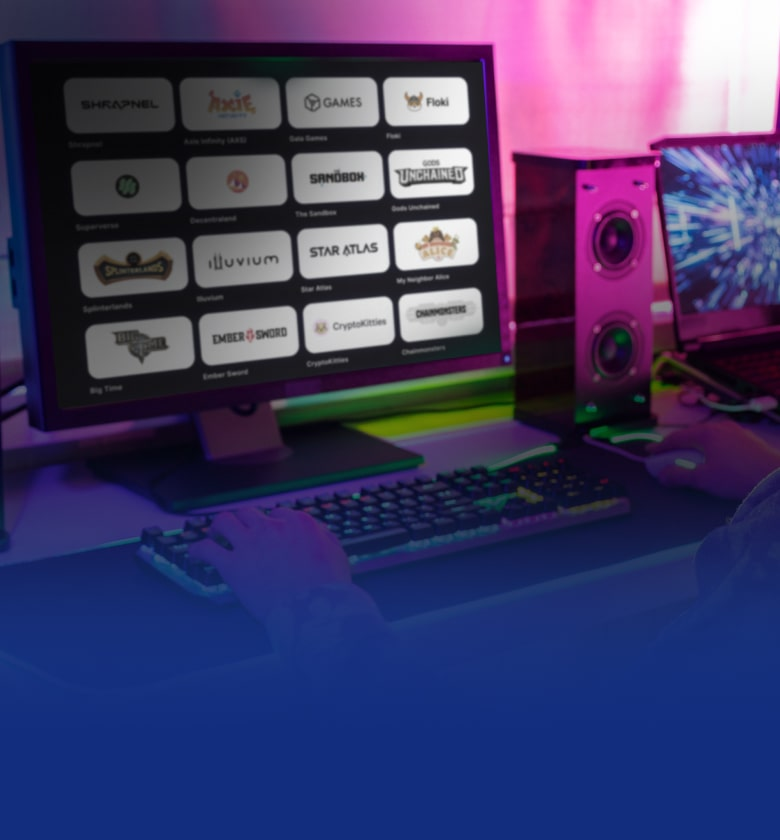
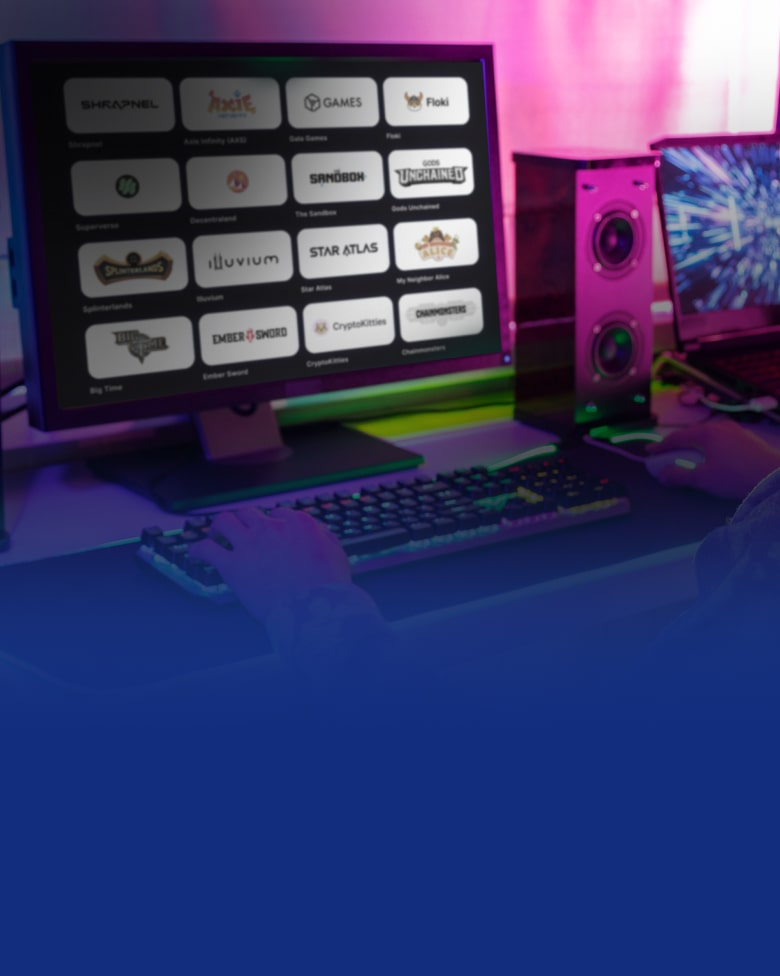
Solve bugs related to mobile

diff --git a/src/layouts/CategoryOverviewLayout.tsx b/src/layouts/CategoryOverviewLayout.tsx
@@ -8,86 +8,91 @@ import { cn } from '../lib/utils';
 import { useTransitionAnimation } from '../context/TransitionAnimationContext/TransitionAnimationContext';
 
 interface CategoryOverviewLayout {
-    children: React.ReactNode;
+	children: React.ReactNode;
 }
 
 const CategoryOverviewLayout: React.FC<CategoryOverviewLayout> = ({ children }) => {
-    const [hasScrolled, setHasScrolled] = useState(false);
-    const {category} = useTransitionAnimation()
+	const [hasScrolled, setHasScrolled] = useState(false);
+	const { category } = useTransitionAnimation();
 
-    const handleScroll = useCallback(() => {
-        // Only execute on md screens and above (768px is Tailwind's md breakpoint)
-        if (window.innerWidth < 1024) return;
+	const handleScroll = useCallback(() => {
+		// Only execute on md screens and above (768px is Tailwind's md breakpoint)
+		if (window.innerWidth < 1024) return;
 
-        const scrollPosition = window.scrollY;
+		const scrollPosition = window.scrollY;
 
-        // Reset states when user scrolls back to top
-        if (scrollPosition === 0) {
-            setHasScrolled(false);
-            return;
-        }
+		// Reset states when user scrolls back to top
+		if (scrollPosition === 0) {
+			setHasScrolled(false);
+			return;
+		}
 
-        // Trigger scroll down when user starts scrolling
-        if (!hasScrolled && scrollPosition > 50) {
-            setHasScrolled(true);
-            window.scrollTo({
-                top: category !== 'creators' ? 500 : 430,
-                behavior: 'smooth'
-            });
-        }
-    }, [category, hasScrolled]);
+		// Trigger scroll down when user starts scrolling
+		if (!hasScrolled && scrollPosition > 30) {
+			setHasScrolled(true);
+			window.scrollTo({
+				top: category !== 'creators' ? 500 : 430,
+				behavior: 'smooth'
+			});
+		}
+	}, [category, hasScrolled]);
 
-    useEffect(() => {
-        window.addEventListener('scroll', handleScroll);
-        return () => window.removeEventListener('scroll', handleScroll);
-    }, [handleScroll]);
+	useEffect(() => {
+		window.addEventListener('scroll', handleScroll);
+		return () => window.removeEventListener('scroll', handleScroll);
+	}, [handleScroll]);
 
-    return (
-        <CategoryBgTransition>
-            {/* Main scrollable container */}
-            <div className="flex-grow relative">
-                {/* Hero Container */}
-                <div className="hidden md:block absolute inset-0 overflow-x-hidden">
-                    <HeroContainer />
-                </div>
+	useEffect(() => {
+		const scrollToTop = () => {
+			window.scrollTo({ top: 0, behavior: 'smooth' });
+		};
 
-                {/* Overflow wrapper */}
-                <div className="relative z-10 overflow-y-auto h-screen md:overflow-y-visible md:h-auto">
-                    <NavbarMobile />
-                    <div className="md:hidden absolute inset-0 overflow-x-hidden">
-                    <HeroContainer />
-                </div>
-                    <div className="pl-4 mb-24">
-                        <div className="grid lg:grid-cols-[300px_1fr] lg:gap-10">
-                            {/* Menu section */}
-                            <div className="md:block">
-                                <div 
-                                    className={`lg:sticky lg:top-4 lg:max-h-[800px] max-h-[480px] h-screen transition-transform duration-1000 ease-in-out`}
-                                >
-                                    <MenuCategory />
-                                </div>
-                            </div>
+		scrollToTop();
+	}, [category]);
 
-                            {/* Main content with overflow control */}
-                            <div className="overflow-x-hidden z-10 md:z-0 mt-14 md:mt-0">
-                                <div className="flex flex-col">
-                                    {/* Spacer */}
-                                    <div className={cn(category !== 'creators' ? "lg:h-[550px]" : "lg:h-[470px]" )} />
+	return (
+		<CategoryBgTransition>
+			{/* Main scrollable container */}
+			<div className='flex-grow relative'>
+				{/* Hero Container */}
+				<div className='hidden md:block absolute inset-0 overflow-x-hidden'>
+					<HeroContainer />
+				</div>
 
-                                    {/* Content */}
-                                    <div className="w-full">
-                                        {children}
-                                    </div>
-                                </div>
-                            </div>
-                        </div>
-    
-                    </div>
-                    <Footer />
-                </div>
-            </div>
-        </CategoryBgTransition>
-    );
+				{/* Overflow wrapper */}
+				<div className='relative z-10 overflow-y-auto h-screen md:overflow-y-visible md:h-auto'>
+					<NavbarMobile />
+					<div className='md:hidden absolute inset-0 overflow-x-hidden'>
+						<HeroContainer />
+					</div>
+					<div className='pl-4 mb-24'>
+						<div className='grid lg:grid-cols-[300px_1fr] lg:gap-10'>
+							{/* Menu section */}
+							<div className='md:block -mb-10 md:mb-0'>
+								<div
+									className={`lg:sticky lg:top-4 lg:max-h-[800px] max-h-[480px] h-screen transition-transform duration-1000 ease-in-out`}
+								>
+									<MenuCategory />
+								</div>
+							</div>
+
+							{/* Main content with overflow control */}
+							<div className='overflow-x-hidden z-10 md:z-0 md:mt-0'>
+								<div className='flex flex-col'>
+									{/* Spacer */}
+									<div className={cn(category !== 'creators' ? 'lg:h-[550px]' : 'lg:h-[470px]')} />
+
+									{/* Content */}
+									<div className='w-full'>{children}</div>
+								</div>
+							</div>
+						</div>
+					</div>
+					<Footer />
+				</div>
+			</div>
+		</CategoryBgTransition>
+	);
 };
 
 export default CategoryOverviewLayout;

diff --git a/src/components/TransitionGradient.tsx b/src/components/TransitionGradient.tsx
@@ -118,7 +118,7 @@ const TransitionGradient: React.FC<TransitionGradientProps> = () => {
 			{/* Current gradient layers */}
 			<div
 				key={`current-1-${activeIndex}`}
-				className={cn('absolute w-screen flex-shrink-0 md:bottom-[-215px] md:h-[429px]', category === "creators" ? ' h-[170px] bottom-[50px]' : "h-[250px] bottom-[100px]")}
+				className={cn('absolute w-screen flex-shrink-0 md:bottom-[-215px] md:h-[429px]', category === "creators" ? ' h-[170px] bottom-[50px]' : "h-[150px] bottom-0")}
 				style={{
 					...baseStyle,
 					background: currentGradient[0],
@@ -128,7 +128,7 @@ const TransitionGradient: React.FC<TransitionGradientProps> = () => {
 			/>
 			<div
 				key={`current-2-${activeIndex}`}
-				className={cn('absolute w-screen flex-shrink-0 md:bottom-[-315px] md:h-[429px]', category === "creators" ? ' h-[170px] bottom-[10px]' : "h-[250px] bottom-[50px]")}
+				className={cn('absolute w-screen flex-shrink-0 md:bottom-[-315px] md:h-[429px]', category === "creators" ? ' h-[170px] bottom-[10px]' : "h-[150px] bottom-0 ")}
 				style={{
 					...baseStyle,
 					background: currentGradient[1],
@@ -138,7 +138,7 @@ const TransitionGradient: React.FC<TransitionGradientProps> = () => {
 			/>
 			<div
 				key={`current-3-${activeIndex}`}
-				className={cn('absolute w-screen flex-shrink-0 md:bottom-[-315px] md:h-[429px]', category === "creators" ? ' h-[170px] bottom-[0px]' : "h-[250px] bottom-[0px]")}
+				className={cn('absolute w-screen flex-shrink-0 md:bottom-[-315px] md:h-[429px]', category === "creators" ? ' h-[170px] bottom-[0px]' : "h-[150px] bottom-0")}
 				style={{
 					...baseStyle,
 					background: currentGradient[2],
@@ -152,7 +152,7 @@ const TransitionGradient: React.FC<TransitionGradientProps> = () => {
 				<>
 					<div
 						key={`next-1-${nextIndex}`}
-						className={cn('absolute w-screen flex-shrink-0 md:bottom-[-215px] md:h-[429px]', category === 'creators' ? 'h-[170px] bottom-[50px]' : 'h-[250px] bottom-[100px]')}
+						className={cn('absolute w-screen flex-shrink-0 md:bottom-[-215px] md:h-[429px]', category === 'creators' ? 'h-[170px] bottom-[50px]' : 'h-[150px] bottom-0')}
 						style={{
 							...baseStyle,
 							background: nextGradient[0],
@@ -162,7 +162,7 @@ const TransitionGradient: React.FC<TransitionGradientProps> = () => {
 					/>
 					<div
 						key={`next-2-${nextIndex}`}
-						className={cn('absolute w-screen flex-shrink-0 md:bottom-[-315px] md:h-[429px]', category === 'creators' ? 'h-[170px] bottom-[10px]' : 'h-[250px] bottom-[50px]')}
+						className={cn('absolute w-screen flex-shrink-0 md:bottom-[-315px] md:h-[429px]', category === 'creators' ? 'h-[170px] bottom-[10px]' : 'h-[150px] bottom-0')}
 						style={{
 							...baseStyle,
 							background: nextGradient[1],
@@ -172,7 +172,7 @@ const TransitionGradient: React.FC<TransitionGradientProps> = () => {
 					/>
 					<div
 						key={`next-3-${nextIndex}`}
-						className={cn('absolute w-screen flex-shrink-0 md:bottom-[-315px] md:h-[429px]', category === 'creators' ? 'h-[170px] bottom-[0px]' : 'h-[250px] bottom-[0px]')}
+						className={cn('absolute w-screen flex-shrink-0 md:bottom-[-315px] md:h-[429px]', category === 'creators' ? 'h-[170px] bottom-[0px]' : 'h-[150px] bottom-0')}
 						style={{
 							...baseStyle,
 							background: nextGradient[2],

diff --git a/src/components/Category/CategoryContainer.tsx b/src/components/Category/CategoryContainer.tsx
@@ -35,8 +35,8 @@ const CategoryContainer: React.FC<CategoryContainerProps> = React.memo(
 		return (
 			<div className={cn('flex flex-col gap-4 w-full', isViewOnly ? 'glass pl-5 py-5' : '')}>
 				{/* Title section */}
-				<div className='flex items-center md:text-2xl text-lg font-semibold gap-1 text-white'>
-					{!isViewOnly &&  <Link to={!squareView ? `/?category=${title.toLowerCase()}` : '/creatorhub'} className='flex items-center gap-1 text-white'>
+				<div className='flex items-center md:text-2xl text-lg font-semibold gap-1 text-white hover:cursor-pointer'>
+					{!isViewOnly &&  <Link to={!squareView ? `/?category=${title.toLowerCase()}` : '/creatorhub'} className='flex items-center gap-1 text-white hover:cursor-pointer'>
 						<p className='font-bold'>{title}</p>
 					</Link>}
 					{

diff --git a/src/components/Hero/HeroImage.tsx b/src/components/Hero/HeroImage.tsx
@@ -149,7 +149,7 @@ const HeroImage: React.FC = () => {
 			{category === 'creators' && isMobile && (
 				<div className='absolute inset-0 w-full h-full flex items-center mt-[450px] md:mt-0'>
 					<div className='h-40 relative w-[130%] flex flex-col items-start justify-center'>
-						<div className='mt-20'>
+						<div className='mt-5'>
 							<div className='absolute h-full w-full bg-[#090D23] blur-[54px] z-0' />
 							<div className='absolute h-full w-full bg-[#090D23] blur-[54px] z-0' />
 							<div className='absolute h-full w-full bg-[#090D23] blur-[50px] z-0' />

diff --git a/src/components/Menu/MobileMenu.tsx b/src/components/Menu/MobileMenu.tsx
@@ -34,10 +34,10 @@ const MobileMenu = () => {
 	const MenuContent = () => (
 		<div className='fixed inset-0 bg-[#1B1B1B] z-50 lg:hidden pt-7'>
 			<div className='flex flex-col h-full md:px-5 md:text-xl lg:px-0'>
-				<div className='flex justify-end'>
+				<div className='flex justify-end px-5 md:px-0'>
 					<button
 						onClick={() => setIsOpen(false)}
-						className='-pr-5 text-white hover:text-gray-300 transition-colors'
+						className='md:-pr-5 text-white hover:text-gray-300 transition-colors'
 						aria-label='Close menu'
 					>
 						<X size={24} />

diff --git a/src/components/Hero/HeroContainer.tsx b/src/components/Hero/HeroContainer.tsx
@@ -29,8 +29,8 @@ const HeroContainer: React.FC = () => {
 			{category !== 'creators' ? (
 				<div
 					className={cn(
-						'absolute top-0 left-0 right-0 md:h-[700px] w-full',
-						!category ? 'h-[550px]' : category !== 'home' ? 'h-[470px]' : 'h-[550px]'
+						'absolute top-0 left-0 right-0 md:h-[770px] w-full',
+						!category ? 'min-h-[380px] max-h-[450px] md:max-h-none h-full' : category !== 'home' ? 'min-h-[380px] max-h-[450px] md:max-h-none h-full' : 'min-h-[380px] max-h-[450px] md:max-h-none h-full'
 					)}
 				>
 					<HeroImage />

diff --git a/src/components/Category/CategoryCard.tsx b/src/components/Category/CategoryCard.tsx
@@ -24,7 +24,7 @@ const CategoryCard: React.FC<CategoryCardProps> = ({ alt, logo, logoWhite, href 
 
   return (
     <div className="flex flex-col gap-4">
-      <Link to={href || '/'} target="_blank" className="w-full transition-all duration-200">
+      <Link to={href || '/'} target="_blank" className="w-full transition-all duration-200 hover:cursor-pointer">
         <div
           className="w-full h-[100px] md:h-[120px] bg-white rounded-2xl transition-all duration-200 group relative overflow-hidden"
           style={

diff --git a/src/components/Creators/CreatorsCard.tsx b/src/components/Creators/CreatorsCard.tsx
@@ -15,7 +15,7 @@ const CreatorsCard: React.FC<CreatorsCardProps> = ({ alt, img, logo, description
 	return (
 		<div className='flex flex-col gap-3'>
 			{/* Image Container */}
-			<div className='relative md:w-64 md:h-60 w-48 h-44'>
+			<div className='relative md:w-64 md:h-60 w-48 h-44 hover:cursor-pointer'>
 				{/* Image */}
 				<Link to={href || '/'} target='_blank'>
 					<div className='rounded-4xl overflow-hidden'>
